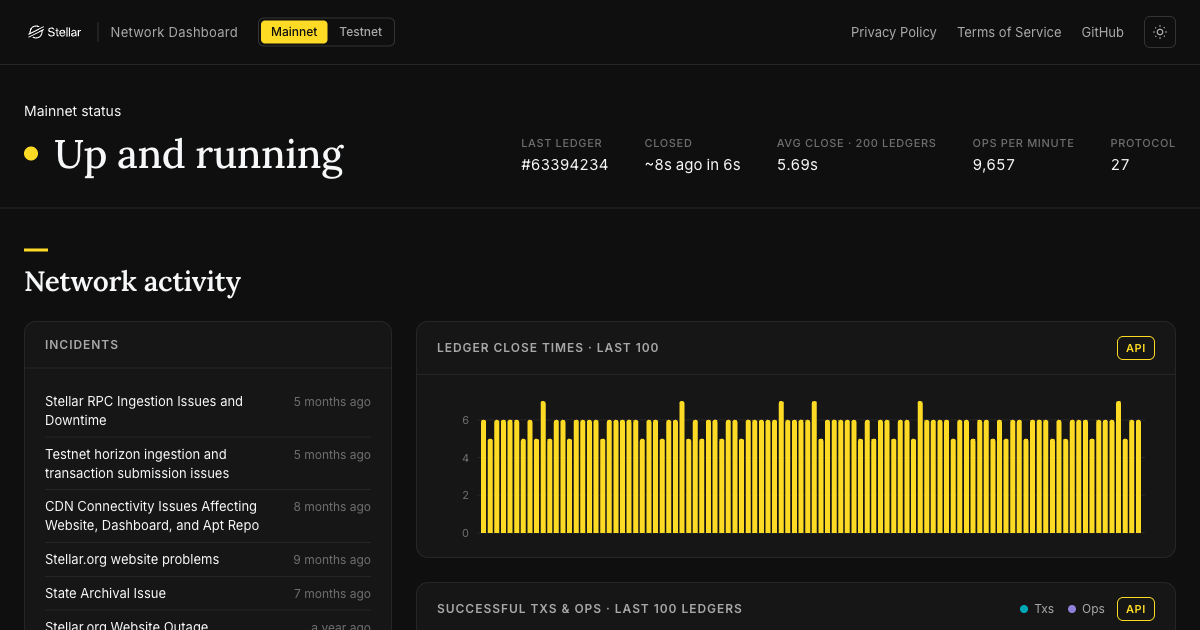
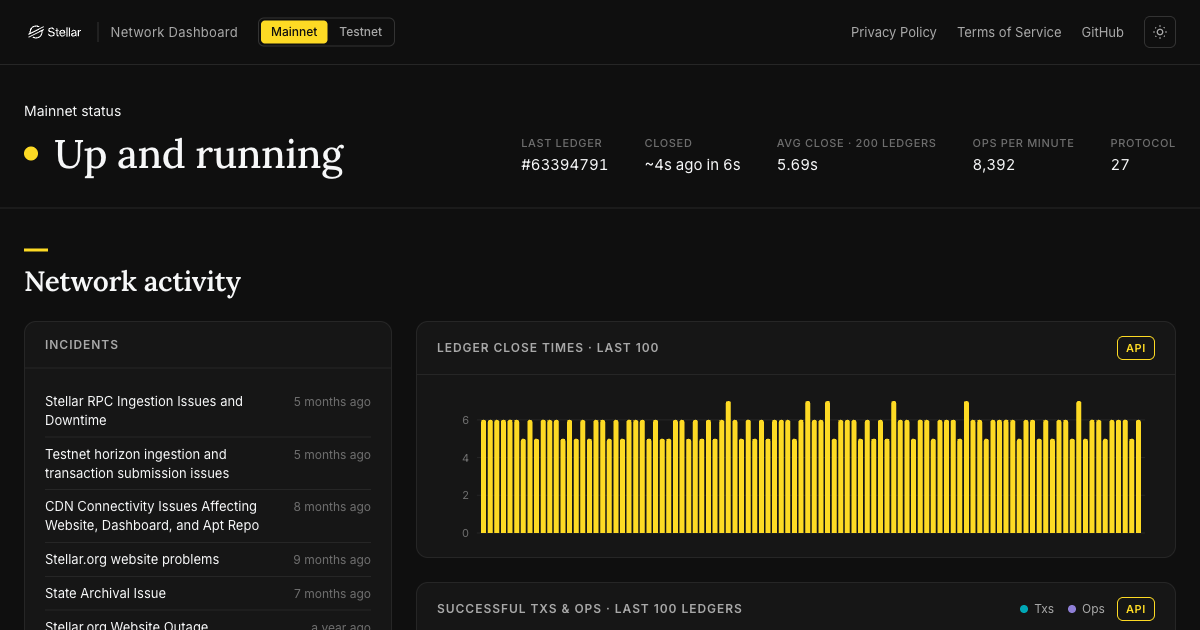
Replace fee percentile chart with summary and table

diff --git a/frontend/components/FeeStats.jsx b/frontend/components/FeeStats.jsx
@@ -2,30 +2,12 @@ import React from "react";
 import axios from "axios";
 import get from "lodash/get";
 import Card from "./ui/Card.jsx";
-import {
-  getChartTheme,
-  createTooltip,
-  tooltipRow,
-} from "./ui/chartUtils.js";
 
 export default class FeeStats extends React.Component {
   constructor(props) {
     super(props);
     this.state = { loading: true, expanded: false, stats: {} };
     this.url = `${this.props.horizonURL}/fee_stats`;
-    this.percentiles = [
-      "p10",
-      "p20",
-      "p30",
-      "p40",
-      "p50",
-      "p60",
-      "p70",
-      "p80",
-      "p90",
-      "p95",
-      "p99",
-    ];
     this.nameMap = [
       { id: "ledger_capacity_usage", name: "Capacity usage" },
       { id: "max_fee.max", name: "Max accepted fee" },
@@ -58,27 +40,12 @@ export default class FeeStats extends React.Component {
   }
 
   componentDidMount() {
-    this.tooltip = createTooltip();
     this.getStats();
     this.timerID = setInterval(() => this.getStats(), 5 * 1000);
   }
 
   componentWillUnmount() {
     clearInterval(this.timerID);
-    this.tooltip.destroy();
-  }
-
-  showPercentileTooltip(event, percentile, value) {
-    this.tooltip.show(
-      `<div style="opacity:.6;margin-bottom:4px;">${percentile} percentile</div>` +
-        tooltipRow(
-          getChartTheme(event.currentTarget).primary,
-          "Accepted fee",
-          `${value.toLocaleString("en-US")} stroops`,
-        ),
-      event.clientX,
-      event.clientY,
-    );
   }
 
   capacityClass(cap) {
@@ -92,12 +59,6 @@ export default class FeeStats extends React.Component {
 
   render() {
     const capacity = get(this.state.stats, "ledger_capacity_usage");
-    const pValues = this.percentiles.map((p) => ({
-      p,
-      value: Number(get(this.state.stats, `max_fee.${p}`)),
-    }));
-    // Fees span orders of magnitude — log-normalize the mini-chart heights.
-    const maxLog = Math.max(...pValues.map((d) => Math.log10(d.value + 1)), 1);
 
     return (
       <Card title="Fee stats · last 5 ledgers" apiUrl={this.url}>
@@ -144,39 +105,6 @@ export default class FeeStats extends React.Component {
                 <div className="stat-value">
                   {get(this.state.stats, "max_fee.max")}
                 </div>
-              </div>
-            </div>
-
-            <div className="fee-percentiles">
-              <div className="stat-label">Accepted fee by percentile</div>
-              <div
-                className="fee-percentiles-bars"
-                role="img"
-                aria-label="Accepted fee by percentile, log scale"
-              >
-                {pValues.map((d) => (
-                  <div
-                    key={d.p}
-                    className="fee-bar"
-                    onMouseMove={(e) =>
-                      this.showPercentileTooltip(e, d.p, d.value)
-                    }
-                    onMouseLeave={() => this.tooltip.hide()}
-                  >
-                    <div
-                      className="fee-bar-fill"
-                      style={{
-                        height: `${Math.max(
-                          (Math.log10(d.value + 1) / maxLog) * 100,
-                          4,
-                        )}%`,
-                      }}
-                    ></div>
-                    <span className="fee-bar-label">
-                      {d.p.replace("p", "")}
-                    </span>
-                  </div>
-                ))}
               </div>
             </div>
 

diff --git a/frontend/scss/_components.scss b/frontend/scss/_components.scss
@@ -888,51 +888,6 @@
   margin-bottom: 16px;
 }
 
-.fee-percentiles {
-  margin-bottom: 4px;
-
-  > .stat-label {
-    margin-bottom: 8px;
-  }
-}
-
-.fee-percentiles-bars {
-  display: flex;
-  align-items: flex-end;
-  gap: 4px;
-  height: 64px;
-}
-
-.fee-bar {
-  flex: 1;
-  height: 100%;
-  display: flex;
-  flex-direction: column;
-  justify-content: flex-end;
-  align-items: center;
-  gap: 4px;
-  cursor: default;
-
-  .fee-bar-fill {
-    width: 100%;
-    max-width: 22px;
-    border-radius: 2px 2px 0 0;
-    background: var(--chart-primary);
-    opacity: 0.85;
-    transition: opacity var(--transition-fast);
-  }
-
-  &:hover .fee-bar-fill {
-    opacity: 1;
-  }
-
-  .fee-bar-label {
-    font-size: 10px;
-    color: var(--color-text-faint);
-    font-variant-numeric: tabular-nums;
-  }
-}
-
 .text-button {
   display: inline-block;
   margin-top: 12px;
